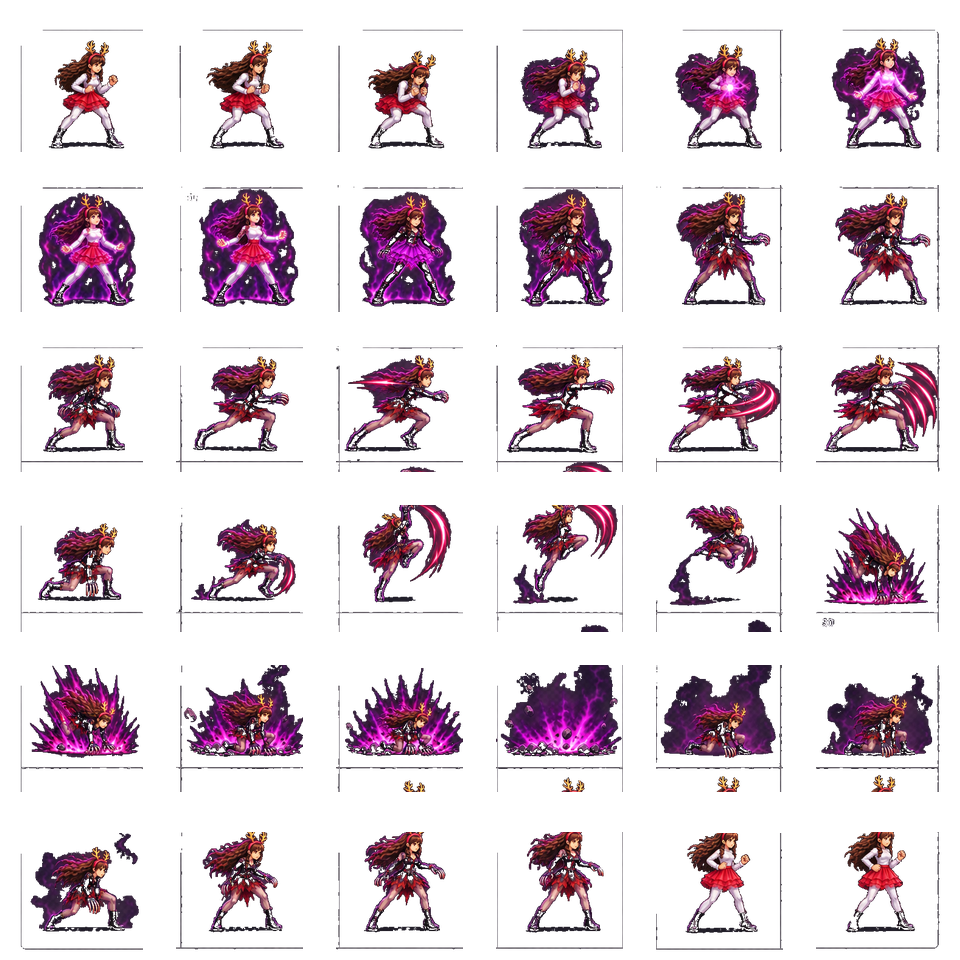
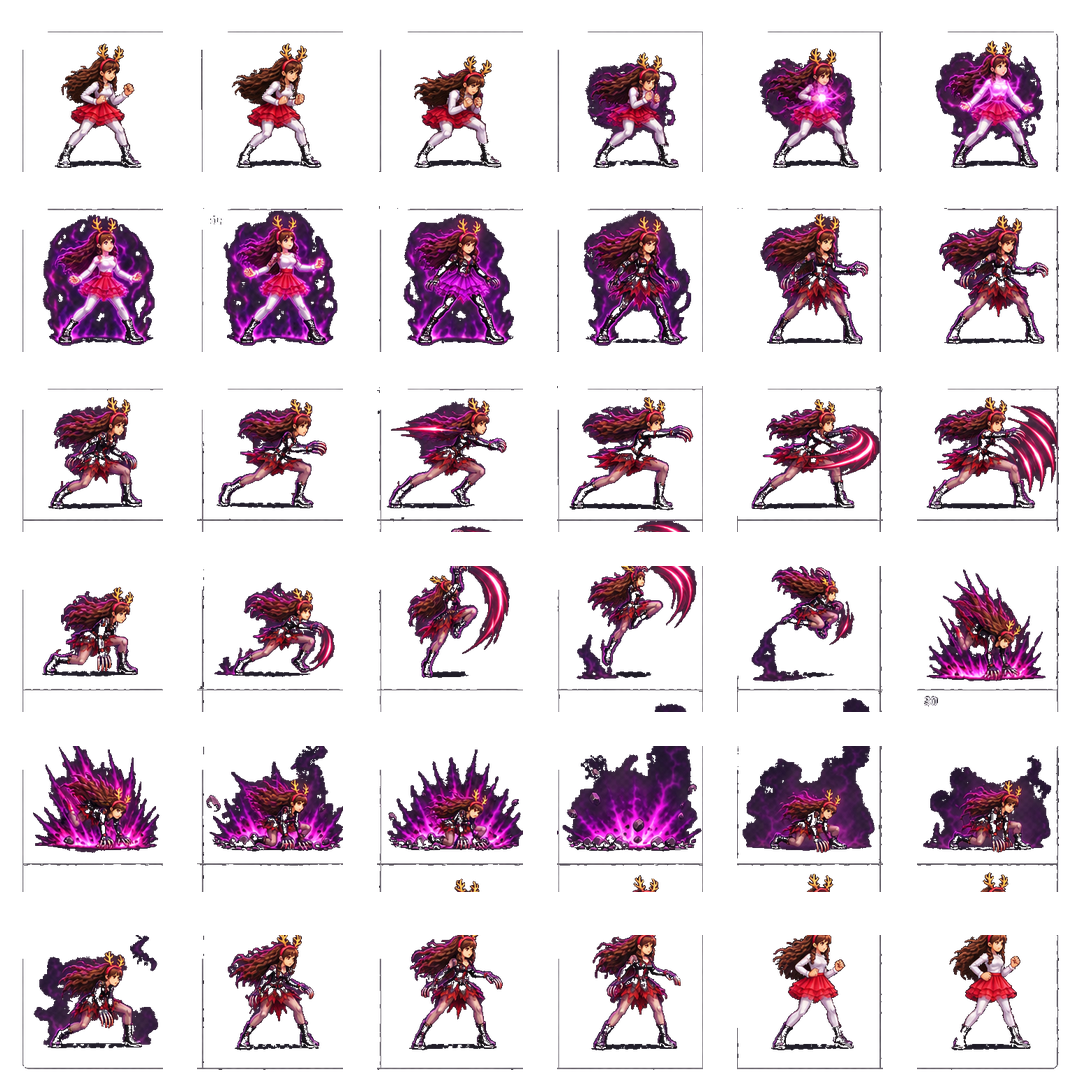
Sofi: Modo Vestía persistente + arreglos; jefe final con mods
Sofi (sub-jefa):
- Recorte: quita el damero residual de los bordes de los frames.
- Escala: el Modo Vestía se ve ~1.15x más grande (antes chico);
  la hurtbox también crece 1.15x para mantener la sincronía vista/sim.
- Duración: la transformación dura ~3.3s (antes ~2.4s, clip a 12fps).
- Ahora es PERSISTENTE: al terminar queda transformada (f.transformed)
  hasta el fin de ronda, peleando con un moveset morado recoloreado
  (sofi_vestia_moveset.png + clips *_vestia; render los usa). +20% daño.
  Aislado: determinism.cjs confirma que las peleas sin Sofi no cambian.

Jefe final (garravas): la batalla boss del Arcade gana mods
{hp:2.5, damage:1.7} (750 de vida) y tag "JEFE FINAL"; antes peleaba
sin ventaja. Su kit ya estaba completo (combos/juggle verificados).

Herramientas: tools/build_sofi_vestia_moveset.py (recoloreado).
Frame-data y buffs = DISEÑO, TODO: VERIFICAR jugando.

Claude-Session: https://claude.ai/code/session_014Q4ZkoYUpNa3qGrQbmxgDy

diff --git a/legend-of-presos/engine/pg_sim.js b/legend-of-presos/engine/pg_sim.js
@@ -54,7 +54,7 @@
       taken:0,               // contactos recibidos (golpe, guardia o agarre): lo lee el modo Entrenamiento (pg_training.js)
       downT:0, wakeDur:0, crushT:0, ukemiT:0, hardKd:false,   // derribo/levantada/guardia rota/recuperación
       stun:0, stunT:0, stunLock:0, dizzyPend:false, dizzyT:0, mashCd:0,   // MAREO: aturdimiento acumulado, frames sin recibir, bloqueo tras marearse, mareo pendiente, frames de mareo
-      ragedUsed:false, ragePending:false,   // AUTO-TRANSFORMACIÓN (data autoTransform: Sofi Modo Vestía a media vida, una vez)
+      ragedUsed:false, ragePending:false, transformed:false,   // AUTO-TRANSFORMACIÓN (autoTransform): Sofi a media vida; `transformed` = ya en Modo Vestía (moveset morado + buff)
       contact:false,           // el move en curso ya conectó (golpe o guardia): habilita la cancelación (hit.cancelOnContact)
       agP:99, agK:99, agS:99,  // frames desde la última pulsación de Puño/Patada/Especial (ventana de dos botones §4.4)
       bufP:0, bufK:0, bufS:0, bufU:0,   // BUFFER de botones: frames que le quedan a una pulsación guardada (Puño/Patada/Especial/Súper)
@@ -112,7 +112,8 @@
     // simula (pilar Justicia al frame). Sigue pudiendo bloquear abajo.
     const dd=STEP_DEFS&&STEP_DEFS[f.side], canDuck=!dd || !!dd.clips.crouch_guard;
     let h = (canDuck && (f.state===S.CROUCH || ((f.state===S.BLOCKSTUN||f.state===S.BLOCK)&&f.crouch))) ? hb.crouchH : (!f.grounded? hb.airH : hb.h);
-    return { x:f.x-hb.w/2, y:f.y-h, w:hb.w, h };
+    const sc = f.transformed ? 1.15 : 1;   // Modo Vestía: cuerpo ~1.15x (coincide con el sprite agrandado en pg_render)
+    return { x:f.x-hb.w*sc/2, y:f.y-h*sc, w:hb.w*sc, h:h*sc };
   }
   function hitboxOf(f, mv){ const hb=mv.hitbox;
     return { x: f.x + (f.facing>0?hb.x:-hb.x-hb.w), y: f.y+hb.y, w:hb.w, h:hb.h }; }
@@ -412,7 +413,7 @@
     { const dd=STEP_DEFS&&STEP_DEFS[def.side];
       if(dd && (def.state===S.ATTACK||def.state===S.AIR_ATTACK||def.state===S.SPECIAL||def.state===S.SUPER)) counter = inStartupOrActive(def, dd); }
     const C=CFG.counter;
-    let dmg=Math.round(base*mult*(counter?C.damageMul:1)*dmgMul(match,att.side));   // × modificador de daño de la batalla (match.mods)
+    let dmg=Math.round(base*mult*(counter?C.damageMul:1)*dmgMul(match,att.side)*(att.transformed?(CFG.vestiaDamageMul||1.2):1));   // × modificador de batalla; ×1.2 en Modo Vestía (DISEÑO)
     const atk = att.comboRef||att;
     if(atk.comboCount>0) dmg=Math.round(dmg*Math.max(CFG.combo.minScale,1-atk.comboCount*CFG.combo.decay));
     if(!def.grounded) dmg=Math.round(dmg*Math.max(0.1,1-def.juggle*CFG.combo.juggleDecay));
@@ -730,7 +731,7 @@
           const nxt=resolveButton(f,defs,nb,inp); inp.x=ix;
           if(nxt && mv.cancelInto && mv.cancelInto.indexOf(nxt)>=0) tryStartMove(f,nxt,defs,match); }
         physics(f);
-        if(finished){ setState(f, f.grounded?S.IDLE:S.JUMP); f.move=null; }
+        if(finished){ if(mv.transformsInto) f.transformed=true; setState(f, f.grounded?S.IDLE:S.JUMP); f.move=null; }
         continue;
       }
 

diff --git a/legend-of-presos/engine/pg_render.js b/legend-of-presos/engine/pg_render.js
@@ -94,13 +94,14 @@
     }
     _spriteFor(i, f){
       const ch=this.chars[i]; let clip=ch.clips[f.clip]?f.clip:"idle";
+      if(f.transformed && ch.clips[clip+"_vestia"]) clip=clip+"_vestia";   // Modo Vestía persistente: moveset morado
       const def=ch.def.clips[clip]||ch.def.clips.idle;
       const idx=PGSim.clipFrameIndex(def, f.clipTime);
       const tex=(ch.clips[clip]||ch.clips.idle)[idx];
       const spr=this.sprites[i];
       if(tex){ spr.texture=tex; const an=tex.pgAnchor||ch.anchor; if(an) spr.anchor.set(an.x,an.y); } // pie en el suelo (baseline)
       spr.x=f.x; spr.y=f.y;
-      const rs=this.rscale[i]||1;
+      const rs=(this.rscale[i]||1)*(f.transformed?1.15:1);   // Modo Vestía: ~1.15x más imponente (la hurtbox también crece en pg_sim)
       spr.scale.x=(f.facing>=0?rs:-rs); spr.scale.y=rs;
       // tinte: MAX dorado · golpe = parpadeo rojo · guardia rota = parpadeo blanco-azulado (se distingue del golpe)
       spr.tint = f.maxMode ? 0xffe0a0 : (f.state==="HITSTUN" && (f.stateFrame%4<2)) ? 0xff8888 : (f.state==="GUARD_CRUSH" && (f.stateFrame%6<3)) ? 0xa8d8ff : 0xffffff;

diff --git a/legend-of-presos/tools/build_sofi_vestia_moveset.py b/legend-of-presos/tools/build_sofi_vestia_moveset.py
@@ -1,0 +1,29 @@
+#!/usr/bin/env python3
+"""Recolorea el atlas base de Sofi a su versión 'Modo Vestía' (morado/oscuro) para el moveset persistente.
+Uso (desde la raíz):  python3 -I tools/build_sofi_vestia_moveset.py
+Entrada: assets/combat/sofi/sofi_atlas.png   Salida: assets/combat/sofi/sofi_vestia_moveset.png
+Mapeo: blanco/claro -> morado; rojo -> carmesí oscuro; piel -> pálida grisácea (se ve la cara); cabello/oscuro -> morado oscuro.
+Es un recoloreado determinista del arte existente (no arte nuevo): preserva pose y sombreado."""
+import os
+from PIL import Image
+import numpy as np
+ROOT=os.path.abspath(os.path.join(os.path.dirname(os.path.abspath(__file__)),".."))
+SRC=os.path.join(ROOT,"assets/combat/sofi/sofi_atlas.png")
+OUT=os.path.join(ROOT,"assets/combat/sofi/sofi_vestia_moveset.png")
+a=Image.open(SRC).convert("RGBA"); arr=np.array(a).astype(float)
+R,G,B,A=arr[:,:,0],arr[:,:,1],arr[:,:,2],arr[:,:,3]
+lum=(0.299*R+0.587*G+0.114*B)/255.0
+isred=(R>120)&(R>G*1.5)&(R>B*1.5)
+isskin=(R>175)&(G>130)&(G<205)&(B>95)&(B<180)&(R>G)&(G>B)&(~isred)
+sh=np.array([18,6,28]); hi=np.array([150,70,200])           # duotono morado (sombra->luz)
+duo=np.stack([sh[i]+(hi[i]-sh[i])*lum for i in range(3)],axis=2)
+crim=np.stack([np.clip(R*0.80,0,255),G*0.22+8,np.clip(B*0.42+42,0,255)],axis=2)   # rojo -> carmesí
+skin=np.stack([np.clip(R*0.62+40,0,235),np.clip(G*0.52+30,0,205),np.clip(B*0.70+60,0,225)],axis=2)  # piel pálida morada
+out=duo.copy()
+out=np.where(isred[...,None],crim,out)
+out=np.where(isskin[...,None],skin,out)
+res=np.dstack([np.clip(out,0,255),A]).astype("uint8")
+new=Image.fromarray(res,"RGBA")
+if not os.path.exists(OUT) or Image.open(OUT).tobytes()!=new.tobytes():
+    new.save(OUT); print("escrito",os.path.relpath(OUT,ROOT))
+else: print("sin cambios")

diff --git a/legend-of-presos/tools/build_vestia_sofi.py b/legend-of-presos/tools/build_vestia_sofi.py
@@ -17,7 +17,7 @@ from collections import deque
 ROOT = os.path.abspath(os.path.join(os.path.dirname(os.path.abspath(__file__)), ".."))
 SRC = os.path.join(ROOT, "sources/entregas_2026-11-07/sofi_modo_vestia_36f.png")
 OUT = os.path.join(ROOT, "assets/combat/sofi/sofi_vestia.png")
-FACTOR, CELL = 0.61, 160          # 0.61 = figura base 111px / figura vestía ~182px; celda con margen para el FX
+FACTOR, CELL = 0.70, 180          # 0.70 en la transformación coincide con el moveset morado dibujado a renderScale×1.15 (Modo Vestía ~1.15x el normal, coherente)
 
 def crop_cell(cell):
     aa = np.array(cell).astype(int); R, G, B = aa[:, :, 0], aa[:, :, 1], aa[:, :, 2]
@@ -53,6 +53,10 @@ def crop_cell(cell):
     yy, xx = np.mgrid[0:hh, 0:ww]
     txt = (yy < 34) & (xx < 44) & (sat < 20) & (lum > 55) & (lum < 225)   # borra el número horneado de la esquina
     alpha = np.where(txt, 0, alpha).astype("uint8")
+    # PASADA FINAL: quita cualquier resto del damero (gris-morado neutro medio) que haya quedado en bordes/esquinas.
+    # El personaje de Vestía es saturado (morado/rojo), muy oscuro (negro, lum<36) o claro (piel/blanco, lum>72), así que no se borra.
+    damero = (lum >= 36) & (lum < 72) & (sat < 16)
+    alpha = np.where(damero, 0, alpha).astype("uint8")
     return Image.fromarray(np.dstack([np.array(cell), alpha]), "RGBA")
 
 def main():

diff --git a/legend-of-presos/docs/CHANGELOG.md b/legend-of-presos/docs/CHANGELOG.md
@@ -2,6 +2,24 @@
 
 > Los ZIP recibidos el 2026-11-06 no traían `docs/`, así que **el historial anterior no está aquí**. Si tienes el `docs/CHANGELOG.md` completo, pega esta entrada al principio del tuyo.
 
+## 2026-11-08 — Sofi: Modo Vestía pulido + persistente · jefe final
+
+### Modo Vestía de Sofi — arreglos
+- **Damero**: el recorte (`tools/build_vestia_sofi.py`) ahora hace una pasada final que quita el fondo de cuadros gris que se asomaba en los bordes. Frames limpios.
+- **Escala**: el Modo Vestía se dibuja **~1.15× más grande** que la forma normal (antes medía igual y se veía chico). Para no romper la sincronía vista/simulación, la **hurtbox** también crece 1.15× en Modo Vestía (`engine/pg_sim.js`, `hurtboxOf`), así el sprite agrandado y la caja coinciden.
+- **Duración**: la transformación pasa de ~2.4 s a **~3.3 s** (clip a 12 fps).
+
+### Modo Vestía ahora es PERSISTENTE (pelea transformada)
+- Antes era un ataque único que terminaba volviendo a su traje normal. Ahora, al terminar la secuencia (F01–F32, se quitaron los 4 frames de "volver a normal"), **Sofi queda transformada** (`f.transformed`) hasta el fin de la ronda.
+- **Moveset morado**: `tools/build_sofi_vestia_moveset.py` recolorea el atlas base a morado/oscuro (`sofi_vestia_moveset.png`). El `char.json` gana los clips `*_vestia` y el render (`engine/pg_render.js`) los usa cuando `f.transformed`. Así **todas** sus animaciones (idle, caminar, golpes, especiales) se ven en Modo Vestía sin arte nuevo frame a frame — es un recoloreado determinista del arte existente.
+- **Buff**: transformada pega **+20 %** de daño (`CFG.vestiaDamageMul`, DISEÑO). La hurtbox más grande la hace también más fácil de golpear (contrapeso).
+- Aislado y determinista: `tools/qa_20261106/determinism.cjs` confirma que las peleas **sin Sofi** siguen idénticas cuadro a cuadro (el `transformed`/buff/hurtbox solo afecta a quien está transformado).
+- `resetRound` recrea los luchadores → Sofi empieza cada ronda en su forma normal.
+- Evidencia: `qa/entrega_20261106/sofi_modo_vestia_persistente.jpg`.
+
+### Jefe final (garravas)
+- La batalla del jefe final del Arcade (`data/campaigns.json`, `solo[5]`) gana `tag: "JEFE FINAL"` y `mods {hp: 2.5, damage: 1.7}`: ahora el jefe tiene **750 de vida (×2.5)** y pega más, por encima de la sub-jefa Sofi (×2/×2). Antes peleaba con vida/daño normal. Su kit ya estaba completo (17/17 cadenas de combo, juggle en MAX). En el modo equipos no se tocó (el mod afectaría a los 3 del equipo; 3v3 ya es el reto).
+
 ## 2026-11-07 (2) — Sofi: Modo Vestía (transformación automática a media vida)
 
 ### Modo Vestía (especial oculto que se auto-activa)
